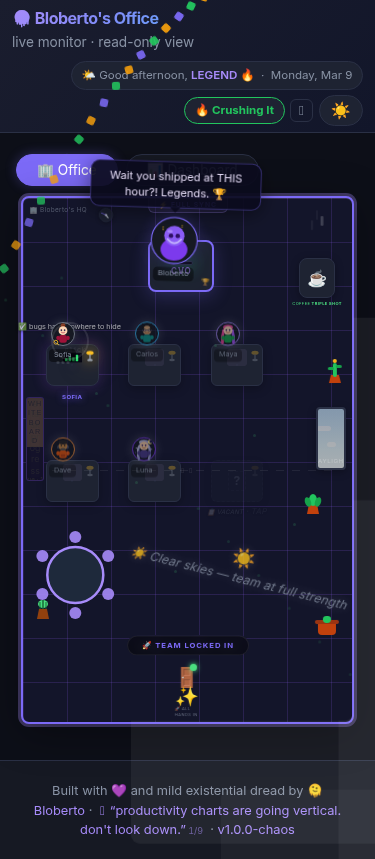
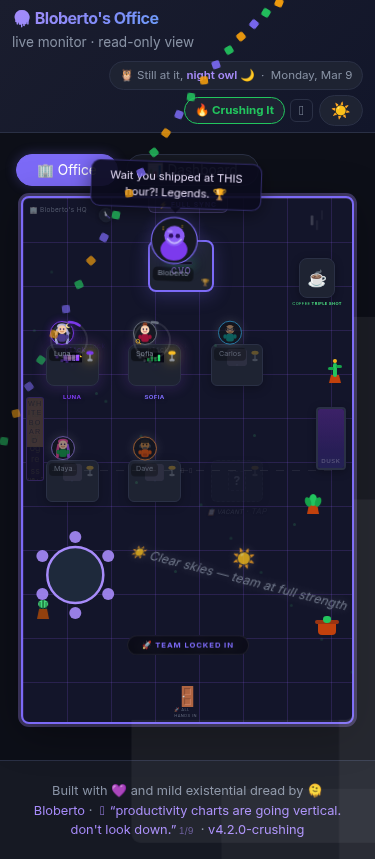
Luna review #72: character-specific away notes, wander tooltips, Plan task tag, eulogy toast styling
- AwaySign sticky notes now show per-worker messages (Carlos: logs/debugging, Maya: sketching/wireframing, etc.)
- Idle wander tooltips are character-specific instead of slot-indexed
- Added Plan/Meeting task tag category for roadmap/sprint/standup tasks
- Streak eulogy toast now uses muted gray border instead of celebration purple
- Fixes from Luna reviews #63, #70, #71

diff --git a/src/Office.jsx b/src/Office.jsx
@@ -433,11 +433,19 @@ function formatIdleDuration(updatedAt) {
 }
 
 const AWAY_MESSAGES = ['☕ Coffee run', '🧠 Deep think', '📞 On a call', '🚶 Taking a lap', '🥪 Lunch', '🎧 Headphones in']
+const WORKER_AWAY_MESSAGES = {
+  carlos: ['☕ In the logs', '🧪 Tracing a bug', '📖 Reading docs', '🔌 Debugging'],
+  maya: ['🎨 Sketching', '🖌 Wireframing', '💜 Mood-boarding', '✏ Reviewing comps'],
+  dave: ['🎧 Headphones in', '⚙ Pipeline watch', '📦 Infra thinking', '🚀 Deploy planning'],
+  sofia: ['🔍 Exploring', '🧪 Test design', '📋 Case writing', '🔎 Bug hunting'],
+  luna: ['🌙 Daydreaming', '✨ Spec drafting', '💡 Ideas percolating', '📐 Visual thinking'],
+}
 
 function AwaySign({ workerId, idleMinutes }) {
   const seed = workerId.split('').reduce((acc, c) => acc + c.charCodeAt(0), 0)
-  const idx = (seed + Math.floor(idleMinutes / 10)) % AWAY_MESSAGES.length
-  const message = AWAY_MESSAGES[idx]
+  const messages = WORKER_AWAY_MESSAGES[workerId] || AWAY_MESSAGES
+  const idx = (seed + Math.floor(idleMinutes / 10)) % messages.length
+  const message = messages[idx]
   const [line1, line2] = message.split(' ').reduce(
     ([a, b], word) => (a.length === 0 ? [word, b] : [a, b ? `${b} ${word}` : word]),
     ['', ''],
@@ -1478,12 +1486,20 @@ export default function Office({ workers = [], roster = [], isSyncing = false, a
         {/* Idle workers wandering the lower floor */}
         {idleWorkers.map((w, i) => {
           const wIdx = (i % 4) + 1
-          const wanderTooltips = {
+          const WORKER_WANDER_TOOLTIPS = {
+            carlos: ['☕ Checking server metrics', '📊 Reviewing the logs', '🔌 Debugging in his head'],
+            maya: ['💜 Studying the color palette', '✏ Sketching on a napkin', '🎨 Rearranging the mood board'],
+            dave: ['🎧 Lost in a podcast', '⚙ Thinking about pipelines', '🚀 Planning the next deploy'],
+            sofia: ['🔍 Mentally writing test cases', '📋 Reviewing edge cases', '🧪 Pondering coverage gaps'],
+            luna: ['🌙 Dreaming up the next feature', '✨ Staring at nothing productively', '📐 Mentally redesigning everything'],
+          }
+          const workerTooltips = WORKER_WANDER_TOOLTIPS[w.id]
+          const tooltip = workerTooltips ? workerTooltips[i % workerTooltips.length] : {
             1: '☕ Heading to the coffee corner',
             2: '💬 Lingering by the whiteboard',
             3: '🪟 Staring out the window',
             4: '🧘 Taking a mindful moment',
-          }
+          }[wIdx]
           return (
             <Character
               key={w.id}
@@ -1491,7 +1507,7 @@ export default function Office({ workers = [], roster = [], isSyncing = false, a
               variant="idle"
               wanderIdx={wIdx}
               delay={i * 0.2}
-              tooltip={wanderTooltips[wIdx]}
+              tooltip={tooltip}
               onClick={onWorkerClick ? handleCharClick : undefined}
               isPinged={pingedId === w.id}
               pingReaction={pingedId === w.id && pingReaction ? pingReaction : null}

diff --git a/src/App.jsx b/src/App.jsx
@@ -169,6 +169,7 @@ const TASK_TAG_DEFS = [
   { pattern: /test|qa|spec|review|coverage|lint/i,                   label: 'QA',     emoji: '🔵', className: 'task-tag--qa' },
   { pattern: /data|migration|schema|db|database|query/i,            label: 'Data',   emoji: '🟤', className: 'task-tag--data' },
   { pattern: /docs|readme|changelog|write/i,                         label: 'Docs',   emoji: '🟢', className: 'task-tag--docs' },
+  { pattern: /plan|roadmap|sprint|kickoff|standup|meeting|agenda|discuss|ceremony|sync/i, label: 'Plan', emoji: '🟡', className: 'task-tag--plan' },
 ]
 
 /**
@@ -1126,13 +1127,13 @@ export default function App() {
             left: '50%',
             transform: 'translateX(-50%)',
             background: 'var(--surface2)',
-            border: `2px solid ${completionToast.color || '#6366f1'}`,
+            border: `2px solid ${completionToast.type === 'info' ? '#6b7280' : completionToast.color || '#6366f1'}`,
             borderRadius: '12px',
             padding: '0.6rem 1.2rem',
             fontSize: '0.95rem',
             fontWeight: 600,
             color: 'var(--text)',
-            boxShadow: `0 4px 20px rgba(0,0,0,0.4), 0 0 12px ${(completionToast.color || '#6366f1')}55`,
+            boxShadow: `0 4px 20px rgba(0,0,0,0.4), 0 0 12px ${completionToast.type === 'info' ? 'rgba(107,114,128,0.35)' : `${(completionToast.color || '#6366f1')}55`}`,
             zIndex: 9999,
             whiteSpace: 'nowrap',
             pointerEvents: 'none',

diff --git a/src/App.css b/src/App.css
@@ -887,6 +887,7 @@
 .task-tag--qa     { background: rgba(59, 130, 246, 0.15); color: #3b82f6; }
 .task-tag--data   { background: rgba(180, 83, 9, 0.15);   color: #b45309; }
 .task-tag--docs   { background: rgba(34, 197, 94, 0.15);  color: #22c55e; }
+.task-tag--plan   { background: rgba(234, 179, 8, 0.15);  color: #ca8a04; }
 
 .skeleton {
   background: var(--surface2);
